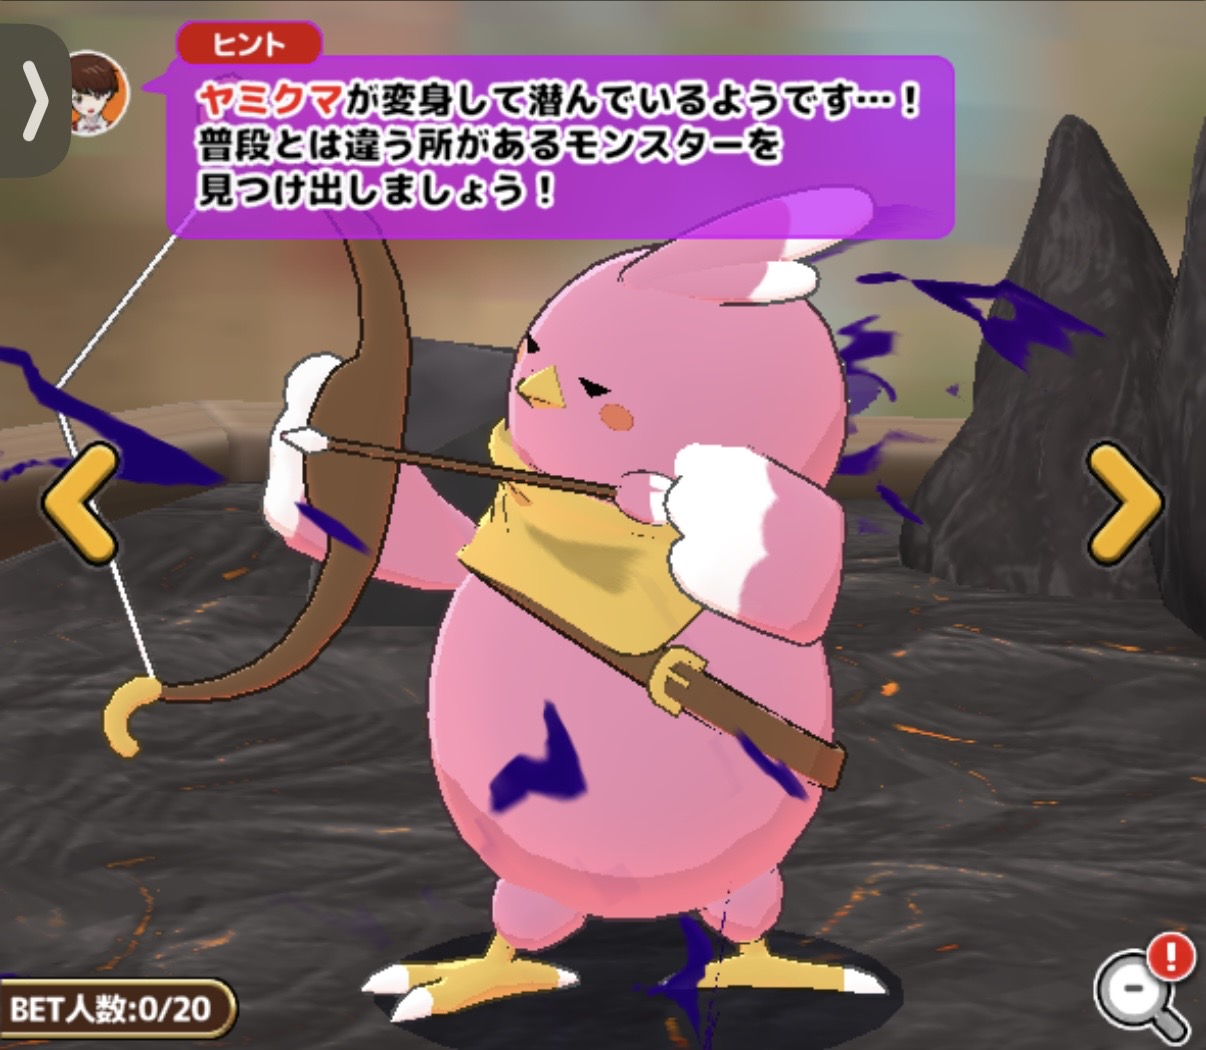
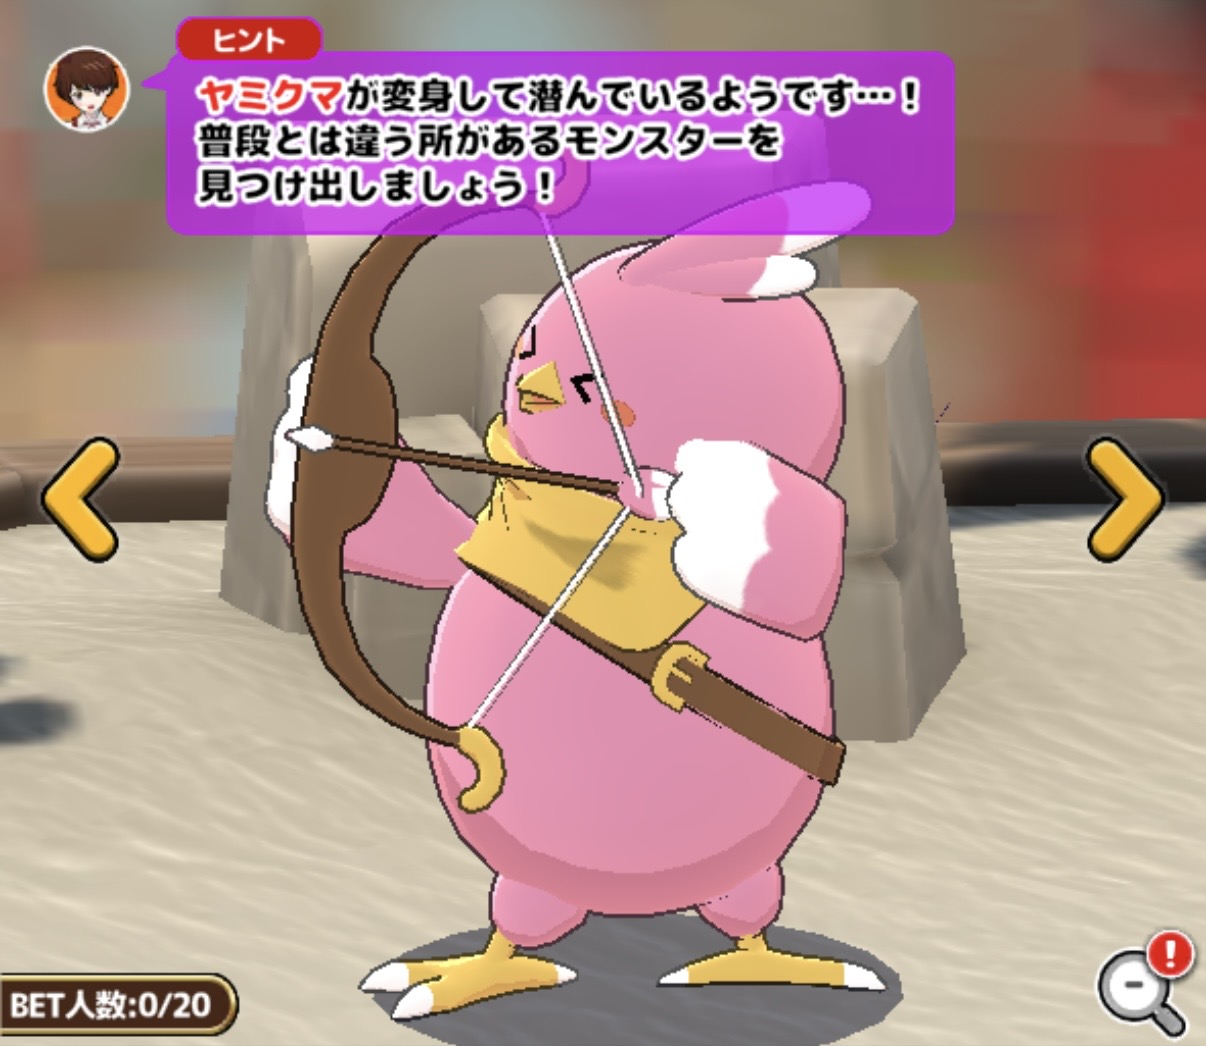
情報更新

diff --git a/data-anomaly.js b/data-anomaly.js
@@ -303,6 +303,11 @@ const ANOMALY_DATA = {
       compareIndex: 1
     },
     {
+      note: "目",
+      point: "目が > < になっている。",
+      compareIndex: 1
+    },
+    {
       note: "弓",
       point: "弓の向きが通常時と比べて逆向きになっている。",
       compareIndex: 1
